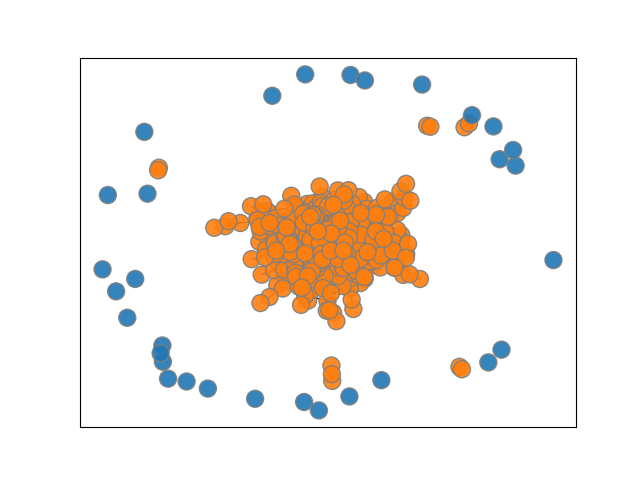
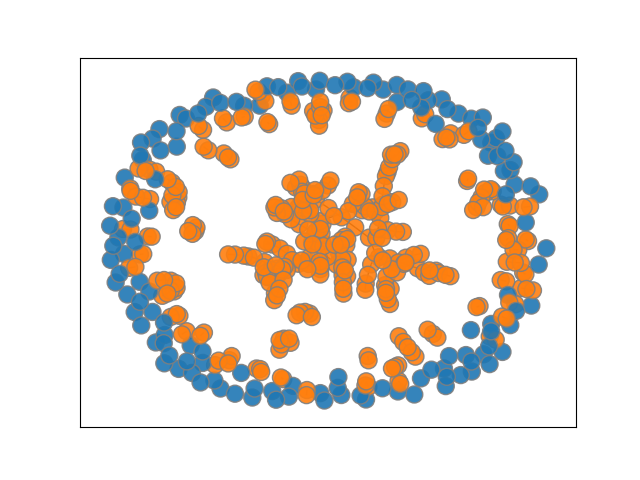
update box plot visualization

Changed region(s): [[0.125, 0.125, 0.875, 0.875]]

diff --git a/main.py b/main.py
@@ -1,68 +1,79 @@
 import utils
-from experiments import vary_brain_size, propagate_all_strategies_network, propagate_all_strategies_disconnected_network_10, \
-        propagate_all_strategies_disconnected_network_5, propagate_best_strategies_network, propagate_best_strategies_disconnected_network_10, \
-        propagate_best_strategies_disconnected_network_5
+from experiments import *
 
 def main():
     T = 500
     N = 481
-    # 1) Varying Brain Size per Minority Games by Yeung and Zhang
-    game = vary_brain_size(T = T, N = N, brain_size = 8, num_strategies = 4, seed = 123)
-    utils.plot_games_result(game, ylim_lower = 0, ylim_upper= N, fig_dir= 'figures/exp_1_game_result.png')
+    # # 1) Varying Brain Size per Minority Games by Yeung and Zhang
+    # print("Experiment 1:")
+    # game = vary_brain_size(T = T, N = N, brain_size = 8, num_strategies = 4, seed = 123)
+    # utils.plot_games_result(game, ylim_lower = 0, ylim_upper= N, fig_dir= 'figures/exp_1_game_result.png')
 
-    # 2) Propagate All Strategies - Network Minority Game
+    # # 2) Propagate All Strategies - Network Minority Game
+    # print("Experiment 2:")
+    # time_step = [i for i in range(T//5, T, T//5)]
+    # game = propagate_all_strategies_network(T = T, N = N, brain_size = 8, num_strategies = 4, 
+    #                     p = 0.0025, seed = 64, time_step = time_step, fig_dir= 'figures/exp2_network_plot.png')
+    # utils.plot_network_games_result(game, ylim_lower = 0, ylim_upper= N, fig_dir= 'figures/exp2_game_result.png')
+    # utils.plot_coop_solo(game, fig_dir='figures/exp2_winning_ratio.png')
+
+    # # 3) Propagate All Strategies - Disconnected Minority Game (10 Groups)
+    # # If the below code doesn't work, probability to create edges in Erdos-Renyi graph is low. 
+    # # p = 0.5 guarantees to create a connected sub-graph, but the trade-off is runtime.
+    # # Try to change seed, or increase p in Network.py
+    # print("Experiment 3:")
+    # time_step = [i for i in range(T//5, T, T//5)]
+    # game = propagate_all_strategies_disconnected_network_10(T = T, N = 451, brain_size = 8, num_strategies = 4, 
+    #                     seed = 64, time_step = time_step, fig_dir= 'figures/exp3_network_plot.png')
+    # utils.plot_network_games_result(game, ylim_lower = 0, ylim_upper= N, fig_dir= 'figures/exp3_game_result.png')
+    # utils.plot_disconnected_groups_10(game, fig_dir='figures/exp3_winning_ratio.png')
+
+    # # 4) Propagate All Strategies - Disconnected Minority Game (5 Groups)
+    # # If the below code doesn't work, probability to create edges in Erdos-Renyi graph is low. 
+    # # p = 0.5 guarantees to create a connected sub-graph, but the trade-off is runtime.
+    # # Try to change seed, or increase p in Network.py
+    # print("Experiment 4:")
+    # time_step = [i for i in range(T//5, T, T//5)]
+    # game = propagate_all_strategies_disconnected_network_5(T = T, N = 481, brain_size = 8, num_strategies = 4, 
+    #                     seed = 64, time_step = time_step, fig_dir= 'figures/exp4_network_plot.png')
+    # utils.plot_network_games_result(game, ylim_lower = 0, ylim_upper= N, fig_dir= 'figures/exp4_game_result.png')
+    # utils.plot_disconnected_groups_5(game, fig_dir='figures/exp4_winning_ratio.png')
+
+    # # 5) Propagate Best Strategies - Network Minority Game
+    # print("Experiment 5:")
+    # time_step = [i for i in range(T//5, T, T//5)]
+    # game = propagate_best_strategies_network(T = T, N = N, brain_size = 8, num_strategies = 4, 
+    #                     p = 0.005, seed = 64, time_step = time_step, fig_dir= 'figures/exp5_network_plot.png')
+    # utils.plot_network_games_result(game, ylim_lower = 0, ylim_upper= N, fig_dir= 'figures/exp5_game_result.png')
+    # utils.plot_coop_solo(game, fig_dir='figures/exp5_winning_ratio.png')
+
+    # # 6) Propagate Best Strategies - Disconnected Minority Game (10 Groups)
+    # # If the below code doesn't work, probability to create edges in Erdos-Renyi graph is low. 
+    # # p = 0.5 guarantees to create a connected sub-graph, but the trade-off is runtime.
+    # # Try to change seed, or increase p in Network.py
+    # print("Experiment 6:")
+    # time_step = [i for i in range(T//5, T, T//5)]
+    # game = propagate_best_strategies_disconnected_network_10(T = T, N = 451, brain_size = 8, num_strategies = 4, 
+    #                     seed = 64, time_step = time_step, fig_dir= 'figures/exp6_network_plot.png')
+    # utils.plot_network_games_result(game, ylim_lower = 0, ylim_upper= N, fig_dir= 'figures/exp6_game_result.png')
+    # utils.plot_disconnected_groups_10(game, fig_dir= 'figures/exp6_winning_ratio.png')
+
+    # # 7) Propagate Best Strategies - Disconnected Minority Game (5 Groups)
+    # # If the below code doesn't work, probability to create edges in Erdos-Renyi graph is low. 
+    # # p = 0.5 guarantees to create a connected sub-graph, but the trade-off is runtime.
+    # # Try to change seed, or increase p in Network.py
+    # print("Experiment 7:")
+    # time_step = [i for i in range(T//5, T, T//5)]
+    # game = propagate_best_strategies_disconnected_network_5(T = T, N = 481, brain_size = 8, num_strategies = 4, 
+    #                     seed = 64, time_step = time_step, fig_dir= 'figures/exp7_network_plot.png')
+    # utils.plot_network_games_result(game, ylim_lower = 0, ylim_upper= N, fig_dir= 'figures/exp7_game_result.png')
+    # utils.plot_disconnected_groups_5(game, fig_dir= 'figures/exp7_winning_ratio.png')
+
+    # 8) Propagate All Strategies 100 times - Network Minority Game
+    print("Experiment 8:")
     time_step = [i for i in range(T//5, T, T//5)]
-    game = propagate_all_strategies_network(T = T, N = N, brain_size = 8, num_strategies = 4, 
-                        p = 0.005, seed = 64, time_step = time_step, fig_dir= 'figures/exp2_network_plot.png')
-    utils.plot_network_games_result(game, ylim_lower = 0, ylim_upper= N, fig_dir= 'figures/exp2_game_result.png')
-    utils.plot_coop_solo(game, fig_dir='figures/exp2_winning_ratio.png')
-
-    # 3) Propagate All Strategies - Disconnected Minority Game (10 Groups)
-    # If the below code doesn't work, probability to create edges in Erdos-Renyi graph is low. 
-    # p = 0.5 guarantees to create a connected sub-graph, but the trade-off is runtime.
-    # Try to change seed, or increase p in Network.py
-    time_step = [i for i in range(T//5, T, T//5)]
-    game = propagate_all_strategies_disconnected_network_10(T = T, N = 451, brain_size = 8, num_strategies = 4, 
-                        seed = 64, time_step = time_step, fig_dir= 'figures/exp3_network_plot.png')
-    utils.plot_network_games_result(game, ylim_lower = 0, ylim_upper= N, fig_dir= 'figures/exp3_game_result.png')
-    utils.plot_disconnected_groups_10(game, fig_dir='figures/exp3_winning_ratio.png')
-
-    # 4) Propagate All Strategies - Disconnected Minority Game (5 Groups)
-    # If the below code doesn't work, probability to create edges in Erdos-Renyi graph is low. 
-    # p = 0.5 guarantees to create a connected sub-graph, but the trade-off is runtime.
-    # Try to change seed, or increase p in Network.py
-    time_step = [i for i in range(T//5, T, T//5)]
-    game = propagate_all_strategies_disconnected_network_5(T = T, N = 481, brain_size = 8, num_strategies = 4, 
-                        seed = 64, time_step = time_step, fig_dir= 'figures/exp4_network_plot.png')
-    utils.plot_network_games_result(game, ylim_lower = 0, ylim_upper= N, fig_dir= 'figures/exp4_game_result.png')
-    utils.plot_disconnected_groups_5(game, fig_dir='figures/exp4_winning_ratio.png')
-
-    # 5) Propagate Best Strategies - Network Minority Game
-    time_step = [i for i in range(T//5, T, T//5)]
-    game = propagate_best_strategies_network(T = T, N = N, brain_size = 8, num_strategies = 4, 
-                        p = 0.005, seed = 64, time_step = time_step, fig_dir= 'figures/exp5_network_plot.png')
-    utils.plot_network_games_result(game, ylim_lower = 0, ylim_upper= N, fig_dir= 'figures/exp5_game_result.png')
-    utils.plot_coop_solo(game, fig_dir='figures/exp5_winning_ratio.png')
-
-    # 6) Propagate Best Strategies - Disconnected Minority Game (10 Groups)
-    # If the below code doesn't work, probability to create edges in Erdos-Renyi graph is low. 
-    # p = 0.5 guarantees to create a connected sub-graph, but the trade-off is runtime.
-    # Try to change seed, or increase p in Network.py
-    time_step = [i for i in range(T//5, T, T//5)]
-    game = propagate_best_strategies_disconnected_network_10(T = T, N = 451, brain_size = 8, num_strategies = 4, 
-                        seed = 64, time_step = time_step, fig_dir= 'figures/exp6_network_plot.png')
-    utils.plot_network_games_result(game, ylim_lower = 0, ylim_upper= N, fig_dir= 'figures/exp6_game_result.png')
-    utils.plot_disconnected_groups_10(game, fig_dir= 'figures/exp6_winning_ratio.png')
-
-    # 7) Propagate Best Strategies - Disconnected Minority Game (5 Groups)
-    # If the below code doesn't work, probability to create edges in Erdos-Renyi graph is low. 
-    # p = 0.5 guarantees to create a connected sub-graph, but the trade-off is runtime.
-    # Try to change seed, or increase p in Network.py
-    time_step = [i for i in range(T//5, T, T//5)]
-    game = propagate_best_strategies_disconnected_network_5(T = T, N = 481, brain_size = 8, num_strategies = 4, 
-                        seed = 64, time_step = time_step, fig_dir= 'figures/exp7_network_plot.png')
-    utils.plot_network_games_result(game, ylim_lower = 0, ylim_upper= N, fig_dir= 'figures/exp7_game_result.png')
-    utils.plot_disconnected_groups_5(game, fig_dir= 'figures/exp7_winning_ratio.png')
-
+    game, stats = propagate_all_strategies_network_100_times(T = T, N = N, brain_size = 8, num_strategies = 4, 
+                        p = 0.0025, seed = 64, time_step = time_step)
+    utils.compute_statistics(stats, game.time_step, colors = {'solo': 'tab:blue', 'coop':'tab:orange'})
 if __name__ == "__main__":
     main()

diff --git a/utils.py b/utils.py
@@ -247,6 +247,63 @@ def plot_disconnected_groups_5(game: Disconnected_Network_Minority_Game_5, fig_d
         plt.show()
     plt.close(fig)
 
+def compute_statistics(stats, time_step, colors, fig_dir = None):
+    '''
+        https://stackoverflow.com/questions/23461713/obtaining-values-used-in-boxplot-using-python-and-matplotlib
+        https://stackoverflow.com/questions/16592222/matplotlib-group-boxplots
+    '''
+    fig, ax = plt.subplots()
+    for key, _ in stats.items():
+        for i in range(len(stats[key])):
+            data = np.array(stats[key][i])
+
+            avg = np.mean(data)
+            median = np.median(data)
+            upper_quartile = np.percentile(data, 75)
+            lower_quartile = np.percentile(data, 25)
+
+            iqr = upper_quartile - lower_quartile
+            upper_whisker = data[data<=upper_quartile+1.5*iqr].max()
+            lower_whisker = data[data>=lower_quartile-1.5*iqr].min()
+            print("Group {0} - Time Step {1} - Statistics: \t Avg = {2:.2%} \t Min = {3:.2%} \t Q1 = {4:.2%} \t Median = {5:.2%} \t Q3 = {6:.2%} \t Max = {7:.2%} \t IQR = {8:.2%}".format(
+                key, time_step[i], avg, lower_whisker, lower_quartile, median, upper_quartile, upper_whisker, iqr
+            ))
+    if fig_dir:
+        num_categories = len(stats)
+        left_offsets = [i/10 for i in range(4*(len(stats)//2), 0, -4)]
+        right_offsets = left_offsets.reverse()
+        if num_categories % 2 == 1:
+            offsets = -left_offsets + right_offsets
+        else:
+            offsets = -left_offsets + [0] + right_offsets
+        
+        i = 0
+        for key, _ in stats.items():
+            bp_tmp = ax.boxplot(stats[key], positions=np.array(range(len(stats[key])))*num_categories + offsets[i], sym='', widths=0.6)
+            set_box_color(bp_tmp, colors[key])
+            i += 1
+
+        # draw temporary lines and use them to create a legend
+        for key, val in colors:
+            plt.plot([], c=val, label=key)
+        plt.legend()
+
+        plt.xticks(range(0, len(time_step) * 2, 2), time_step)
+        plt.xlim(-2, len(time_step)*2)
+        ax.set_xlabel("Game")
+        ax.set_ylabel("Winning Ratio")
+        plt.tight_layout()
+        plt.show()
+
+def set_box_color(bp, color):
+    '''
+        https://stackoverflow.com/questions/16592222/matplotlib-group-boxplots
+    '''
+    plt.setp(bp['boxes'], color=color)
+    plt.setp(bp['whiskers'], color=color)
+    plt.setp(bp['caps'], color=color)
+    plt.setp(bp['medians'], color=color)
+
 def rolling_window(a, window):
     '''
         https://rigtorp.se/2011/01/01/rolling-statistics-numpy.html

diff --git a/experiments.py b/experiments.py
@@ -91,3 +91,30 @@ def propagate_best_strategies_disconnected_network_5(T: int, N: int, brain_size:
     game.network.plot_graph(fig_dir)
     game.start()
     return game
+
+def propagate_all_strategies_network_100_times(T: int, N: int, brain_size: int, num_strategies: int, p: float, seed: int, time_step : List[int]):
+    np.random.seed(seed)
+
+    stats = {
+        "solo": [],
+        "coop": []
+    }
+
+    for t in time_step:
+        stats["solo"].append([])
+        stats["coop"].append([])
+
+    for i in range(5):
+        agents = [Agent(i, past_decisions= None, brain_size = brain_size, num_strategies= num_strategies) for i in range(N)]
+        past_games = np.binary_repr(np.random.randint(0, 2**8), width = 8)         # Assume there is already 8 games played in the past
+
+        game = Network_Minority_Game(T, N, agents, past_games = past_games, 
+                                    threshold = 0.5, p = p,
+                                    time_step = time_step,
+                                    time_limit= None, seed = seed)
+        game.start()
+        for i in range(len(time_step)):
+            stats["solo"][i].append(np.mean(game.arr_num_solo_winner[time_step[i]-5:time_step[i]+5])/game.num_solo_agent)
+            stats["coop"][i].append(np.mean(game.arr_num_coop_winner[time_step[i]-5:time_step[i]+5])/game.num_coop_agent)
+
+    return game, stats

diff --git a/Games.py b/Games.py
@@ -25,7 +25,6 @@ class Traditional_Minority_Game():
             self.past_games += '1' if res[0] == 'Bar' else '0'
 
     def iterate(self, t: int):
-        print("Iteration ", t)
         res = None
         num_of_attendants = 0
         num_of_stay_home = 0
